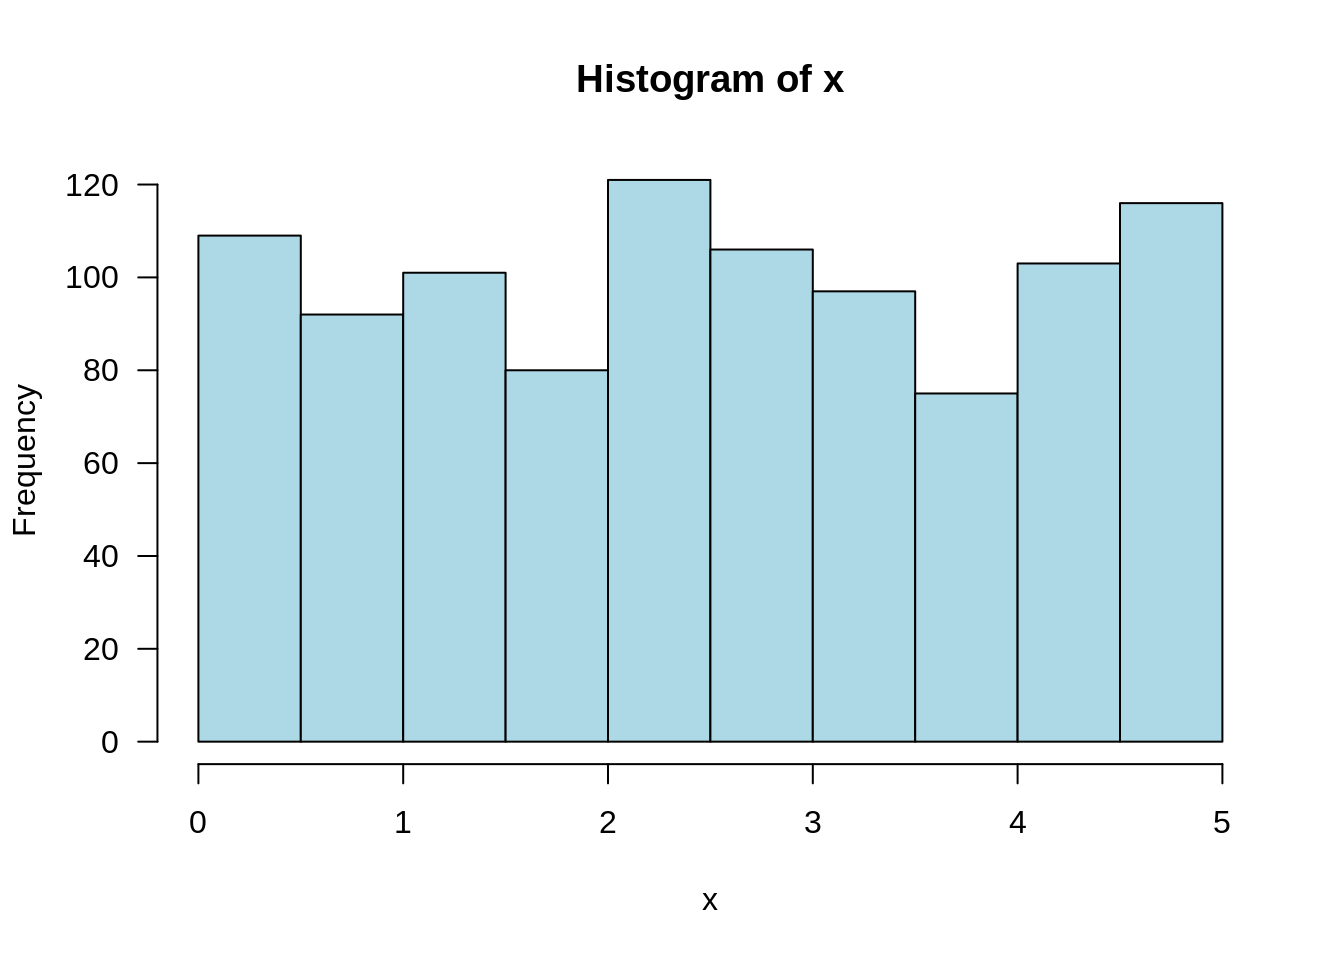
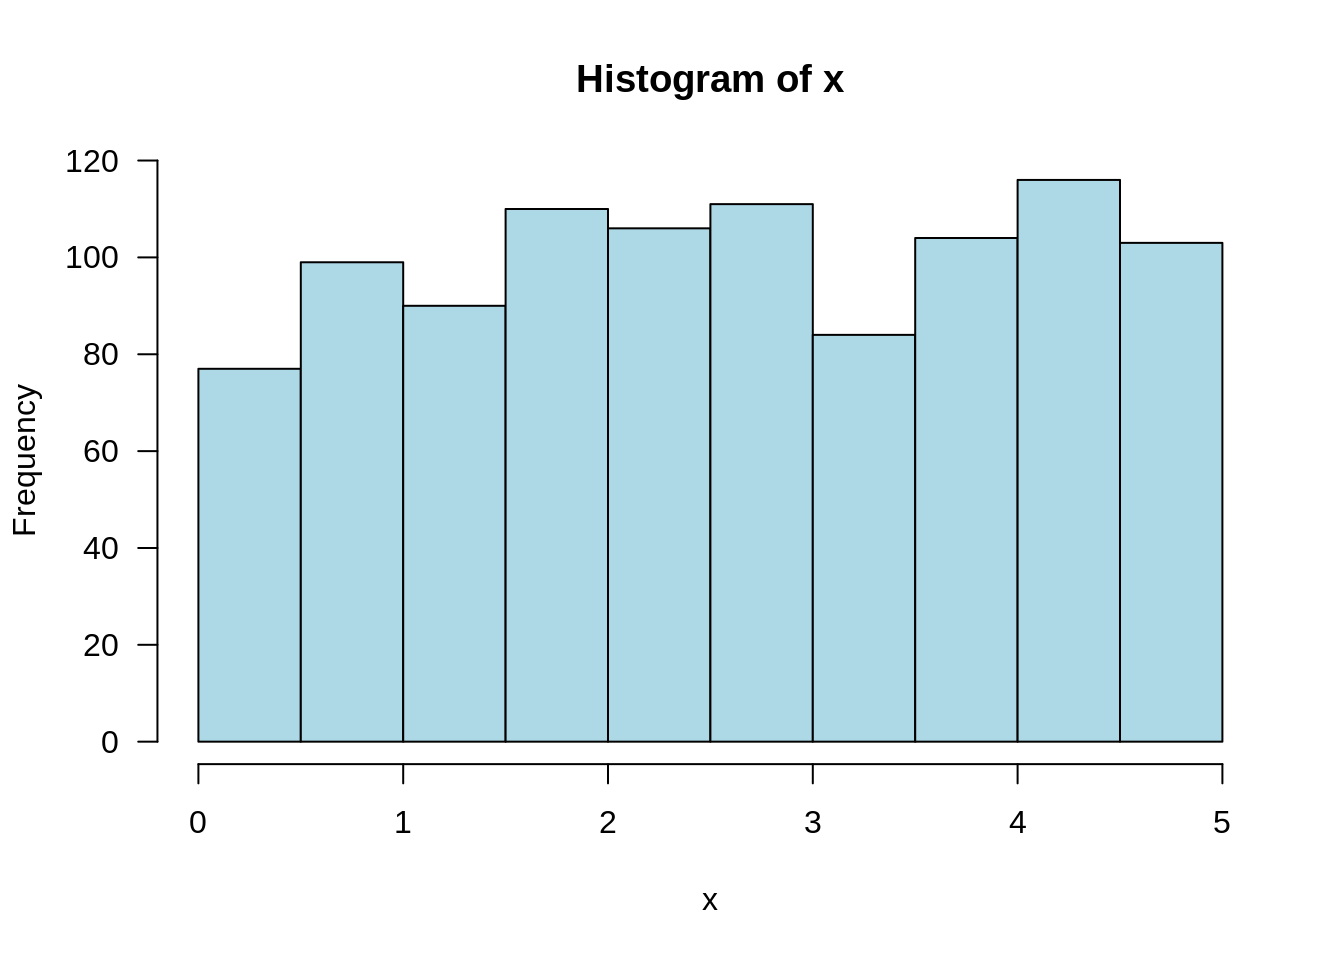
jtr13 published a site update

diff --git a/ch.-4-continuous-random-variables-and-probability-distributions.html b/ch.-4-continuous-random-variables-and-probability-distributions.html
@@ -76,12 +76,12 @@
 <p><span class="math inline">\(f(x) = .2\)</span> for <span class="math inline">\(0 \leq x \leq 5\)</span>, 0 otherwise.</p>
 <div class="sourceCode" id="cb151"><pre class="downlit sourceCode r">
 <code class="sourceCode R"><span class="fu"><a href="https://rdrr.io/r/stats/Uniform.html">runif</a></span><span class="op">(</span>n <span class="op">=</span> <span class="fl">1</span>, min <span class="op">=</span> <span class="fl">0</span>, max <span class="op">=</span> <span class="fl">5</span><span class="op">)</span></code></pre></div>
-<pre><code>## [1] 2.965611</code></pre>
+<pre><code>## [1] 2.318315</code></pre>
 <p>Take the average of 1000 picks:</p>
 <div class="sourceCode" id="cb153"><pre class="downlit sourceCode r">
 <code class="sourceCode R"><span class="va">x</span> <span class="op">&lt;-</span> <span class="fu"><a href="https://rdrr.io/r/stats/Uniform.html">runif</a></span><span class="op">(</span>n <span class="op">=</span> <span class="fl">1000</span>, min <span class="op">=</span> <span class="fl">0</span>, max <span class="op">=</span> <span class="fl">5</span><span class="op">)</span>
 <span class="fu"><a href="https://rdrr.io/r/base/mean.html">mean</a></span><span class="op">(</span><span class="va">x</span><span class="op">)</span></code></pre></div>
-<pre><code>## [1] 2.509298</code></pre>
+<pre><code>## [1] 2.579595</code></pre>
 <p>Draw a histogram of the 1000 picks:</p>
 <div class="sourceCode" id="cb155"><pre class="downlit sourceCode r">
 <code class="sourceCode R"><span class="fu"><a href="https://rdrr.io/r/graphics/hist.html">hist</a></span><span class="op">(</span><span class="va">x</span>, las <span class="op">=</span> <span class="fl">1</span>, col <span class="op">=</span> <span class="st">"lightblue"</span><span class="op">)</span></code></pre></div>
@@ -264,7 +264,7 @@ aid, sothat <em>p = .25</em>. What is the probability that at most 10 students r
 <footer class="bg-primary text-light mt-5"><div class="container"><div class="row">
 
   <div class="col-12 col-md-6 mt-3">
-    <p>"<strong>Stat 1201 Resources</strong>" was written by Joyce Robbins. It was last built on 2021-10-29.</p>
+    <p>"<strong>Stat 1201 Resources</strong>" was written by Joyce Robbins. It was last built on 2021-10-30.</p>
   </div>
 
   <div class="col-12 col-md-6 mt-3">

diff --git a/404.html b/404.html
@@ -79,7 +79,7 @@ the table of contents to find the page you are looking for.</p>
 <footer class="bg-primary text-light mt-5"><div class="container"><div class="row">
 
   <div class="col-12 col-md-6 mt-3">
-    <p>"<strong>Stat 1201 Resources</strong>" was written by Joyce Robbins. It was last built on 2021-10-29.</p>
+    <p>"<strong>Stat 1201 Resources</strong>" was written by Joyce Robbins. It was last built on 2021-10-30.</p>
   </div>
 
   <div class="col-12 col-md-6 mt-3">

diff --git a/ch.-5-joint-probability.html b/ch.-5-joint-probability.html
@@ -139,7 +139,7 @@ Two points are needed to calculate r.
 <footer class="bg-primary text-light mt-5"><div class="container"><div class="row">
 
   <div class="col-12 col-md-6 mt-3">
-    <p>"<strong>Stat 1201 Resources</strong>" was written by Joyce Robbins. It was last built on 2021-10-29.</p>
+    <p>"<strong>Stat 1201 Resources</strong>" was written by Joyce Robbins. It was last built on 2021-10-30.</p>
   </div>
 
   <div class="col-12 col-md-6 mt-3">

diff --git a/ch.-1-descriptive-statistics.html b/ch.-1-descriptive-statistics.html
@@ -327,7 +327,7 @@
 <footer class="bg-primary text-light mt-5"><div class="container"><div class="row">
 
   <div class="col-12 col-md-6 mt-3">
-    <p>"<strong>Stat 1201 Resources</strong>" was written by Joyce Robbins. It was last built on 2021-10-29.</p>
+    <p>"<strong>Stat 1201 Resources</strong>" was written by Joyce Robbins. It was last built on 2021-10-30.</p>
   </div>
 
   <div class="col-12 col-md-6 mt-3">

diff --git a/ch.-12-linear-regression.html b/ch.-12-linear-regression.html
@@ -285,7 +285,7 @@
 <footer class="bg-primary text-light mt-5"><div class="container"><div class="row">
 
   <div class="col-12 col-md-6 mt-3">
-    <p>"<strong>Stat 1201 Resources</strong>" was written by Joyce Robbins. It was last built on 2021-10-29.</p>
+    <p>"<strong>Stat 1201 Resources</strong>" was written by Joyce Robbins. It was last built on 2021-10-30.</p>
   </div>
 
   <div class="col-12 col-md-6 mt-3">

diff --git a/ch.-2-conditional-probability.html b/ch.-2-conditional-probability.html
@@ -101,7 +101,7 @@
 <footer class="bg-primary text-light mt-5"><div class="container"><div class="row">
 
   <div class="col-12 col-md-6 mt-3">
-    <p>"<strong>Stat 1201 Resources</strong>" was written by Joyce Robbins. It was last built on 2021-10-29.</p>
+    <p>"<strong>Stat 1201 Resources</strong>" was written by Joyce Robbins. It was last built on 2021-10-30.</p>
   </div>
 
   <div class="col-12 col-md-6 mt-3">

diff --git a/ch.-2-probability.html b/ch.-2-probability.html
@@ -147,7 +147,7 @@
 <footer class="bg-primary text-light mt-5"><div class="container"><div class="row">
 
   <div class="col-12 col-md-6 mt-3">
-    <p>"<strong>Stat 1201 Resources</strong>" was written by Joyce Robbins. It was last built on 2021-10-29.</p>
+    <p>"<strong>Stat 1201 Resources</strong>" was written by Joyce Robbins. It was last built on 2021-10-30.</p>
   </div>
 
   <div class="col-12 col-md-6 mt-3">

diff --git a/ch.-3-discrete-distributions.html b/ch.-3-discrete-distributions.html
@@ -358,7 +358,7 @@
 <footer class="bg-primary text-light mt-5"><div class="container"><div class="row">
 
   <div class="col-12 col-md-6 mt-3">
-    <p>"<strong>Stat 1201 Resources</strong>" was written by Joyce Robbins. It was last built on 2021-10-29.</p>
+    <p>"<strong>Stat 1201 Resources</strong>" was written by Joyce Robbins. It was last built on 2021-10-30.</p>
   </div>
 
   <div class="col-12 col-md-6 mt-3">

diff --git a/ch.-5-random-samples.html b/ch.-5-random-samples.html
@@ -102,7 +102,7 @@
 <footer class="bg-primary text-light mt-5"><div class="container"><div class="row">
 
   <div class="col-12 col-md-6 mt-3">
-    <p>"<strong>Stat 1201 Resources</strong>" was written by Joyce Robbins. It was last built on 2021-10-29.</p>
+    <p>"<strong>Stat 1201 Resources</strong>" was written by Joyce Robbins. It was last built on 2021-10-30.</p>
   </div>
 
   <div class="col-12 col-md-6 mt-3">

diff --git a/ch.-7-statistical-intervals-based-on-a-single-sample.html b/ch.-7-statistical-intervals-based-on-a-single-sample.html
@@ -113,7 +113,7 @@
 <footer class="bg-primary text-light mt-5"><div class="container"><div class="row">
 
   <div class="col-12 col-md-6 mt-3">
-    <p>"<strong>Stat 1201 Resources</strong>" was written by Joyce Robbins. It was last built on 2021-10-29.</p>
+    <p>"<strong>Stat 1201 Resources</strong>" was written by Joyce Robbins. It was last built on 2021-10-30.</p>
   </div>
 
   <div class="col-12 col-md-6 mt-3">

diff --git a/ch.-8-tests-of-hypotheses-based-on-a-single-sample.html b/ch.-8-tests-of-hypotheses-based-on-a-single-sample.html
@@ -171,7 +171,7 @@
 <footer class="bg-primary text-light mt-5"><div class="container"><div class="row">
 
   <div class="col-12 col-md-6 mt-3">
-    <p>"<strong>Stat 1201 Resources</strong>" was written by Joyce Robbins. It was last built on 2021-10-29.</p>
+    <p>"<strong>Stat 1201 Resources</strong>" was written by Joyce Robbins. It was last built on 2021-10-30.</p>
   </div>
 
   <div class="col-12 col-md-6 mt-3">

diff --git a/ch.-9-inferences-based-on-two-samples.html b/ch.-9-inferences-based-on-two-samples.html
@@ -239,7 +239,7 @@
 <footer class="bg-primary text-light mt-5"><div class="container"><div class="row">
 
   <div class="col-12 col-md-6 mt-3">
-    <p>"<strong>Stat 1201 Resources</strong>" was written by Joyce Robbins. It was last built on 2021-10-29.</p>
+    <p>"<strong>Stat 1201 Resources</strong>" was written by Joyce Robbins. It was last built on 2021-10-30.</p>
   </div>
 
   <div class="col-12 col-md-6 mt-3">
